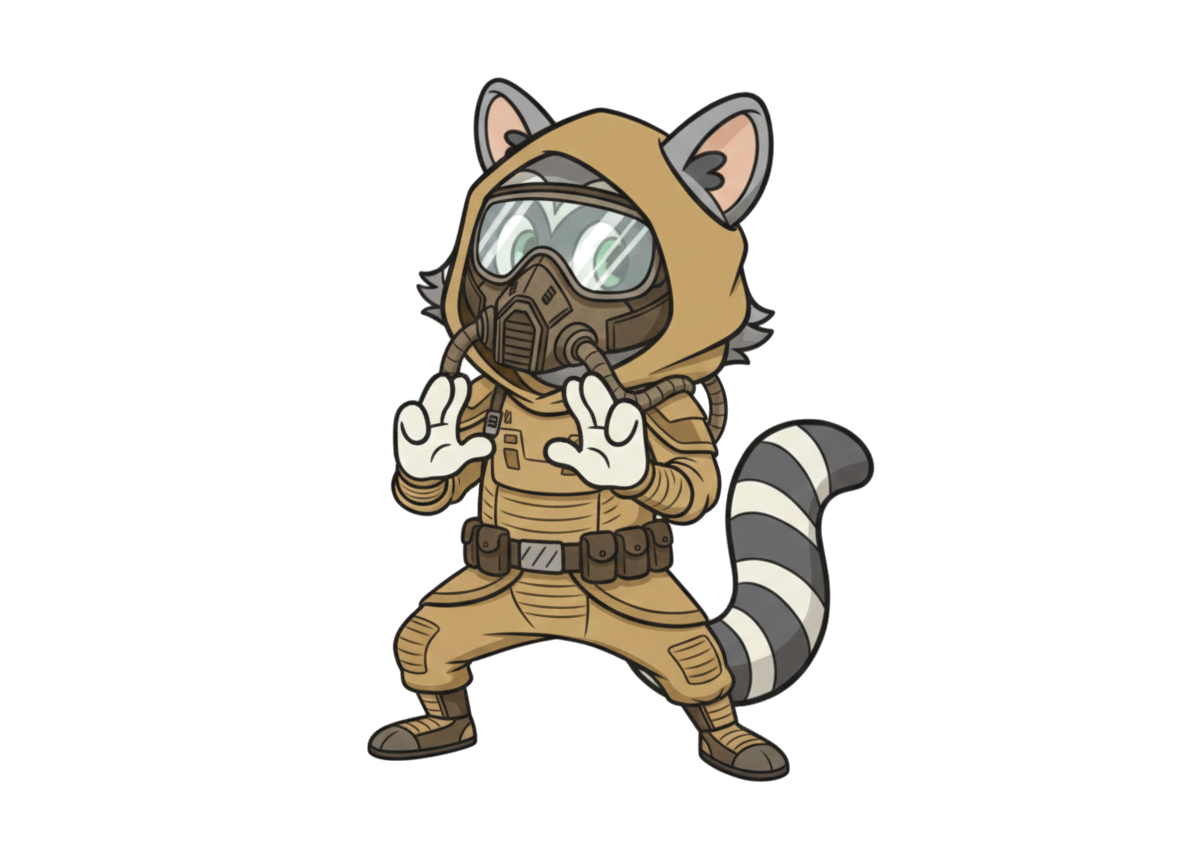
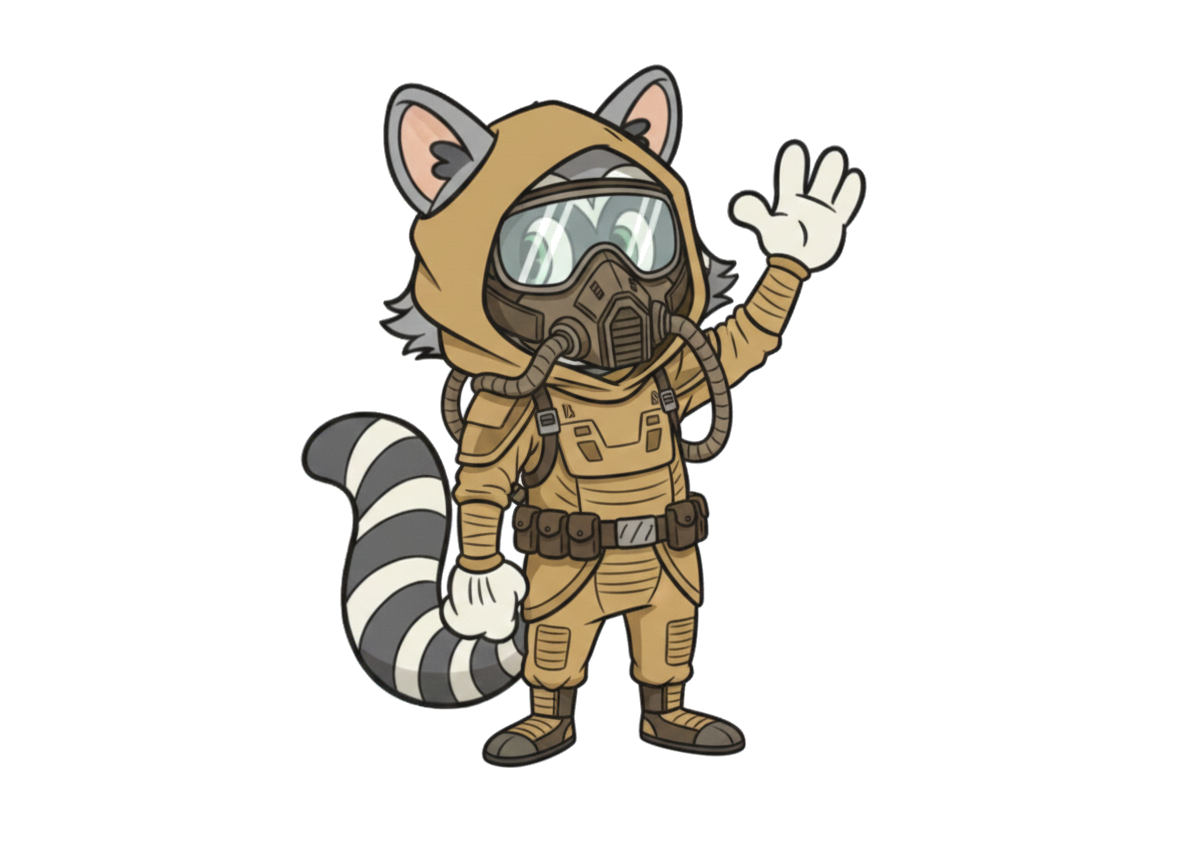
filtro de flashcards en proceso

Changed region(s): [[0.25, 0.0625, 0.75, 0.9062]]

diff --git a/src/templates/flashcards.html b/src/templates/flashcards.html
@@ -111,6 +111,29 @@
         </div>
     </div>
 
+
+        <div class="mascota-flashcards">
+        <img
+          class="flash-mascota-think"
+          src="{{ url_for(
+                   'static',
+                   filename='skins/' + (equipped_skin_cry if last_has_bad else equipped_skin_think)
+               ) }}"
+          alt="Mascota"
+        >
+    </div>
+
+
+
+    {% if bad_flashcard %}
+    <img src="{{ url_for('static', filename='skins/' + equipped_skin_cry) }}" class="flash-mascota-think">
+    {% else %}
+    <img src="{{ url_for('static', filename='skins/' + equipped_skin_think) }}" class="flash-mascota-think">
+    {% endif %}
+
+
+
+
     <script>
         function toggleAnswer(element) {
             const cardElement = element.closest('.flashcard');

diff --git a/src/static/styles.css b/src/static/styles.css
@@ -2116,3 +2116,15 @@ tbody tr:last-child td {
     object-fit: contain;
 }
 
+/* ========================================
+   mascota en flashcards
+   ======================================== */
+.flash-mascota-think {
+    position: fixed;
+    bottom: -70px;
+    right: -100px;
+    width: 400px;     /* Aumenta si la quieres más grande */
+    height: 400px;
+    object-fit: contain; /* Hace que todas las skins usen el mismo tamaño */
+    z-index: 999;
+}

diff --git a/src/routes/pet.py b/src/routes/pet.py
@@ -9,7 +9,7 @@ pet_bp = Blueprint('pet', __name__, template_folder='../templates')
 # -------------------------
 # SKINS DEFINIDAS
 # -------------------------
-skins_data= [
+skins_data = [
     {"id": 1, "nombre": "basico", "precio": 0,
      "imagenes": ["basico.png", "basico_think.png", "basico_llorar.png"]},
 
@@ -26,7 +26,7 @@ skins_data= [
      "imagenes": ["pijo.png", "pijo_think.png", "pijo_llorar.png"]},
 
     {"id": 6, "nombre": "dune", "precio": 90,
-     "imagenes": ["dune.png", "dune2.png"]},
+     "imagenes": ["dune.png", "dune2.png", "dune_llorar.png"]},
 
     {"id": 7, "nombre": "navidad", "precio": 100,
      "imagenes": ["navidad.png", "navidad_think.png", "navidad_llorar.png"]},
@@ -38,16 +38,10 @@ skins_data= [
      "imagenes": ["sheldon.png", "sheldon_think.png", "sheldon_llorar.png"]},
 
     {"id": 10, "nombre": "enfado", "precio": 10,
-     "imagenes": ["enfado.png"]}
+     "imagenes": ["enfado.png"]}  # esta solo tiene una, usará la misma para todo
 ]
 
 
-#Hace que `equipped_skin` esté disponible en TODAS las plantillas
-@pet_bp.app_context_processor
-def inject_equipped_skin():
-    return {
-        "equipped_skin": session.get("equipped_skin", "basico")
-    }
 
 # -------------------------
 # ARMARIO (pagina donde está el mueble)
@@ -156,18 +150,40 @@ def equip_skin():
     return redirect(url_for("pet.skins"))
 
 
-
-
 @pet_bp.app_context_processor
 def inject_equipped_skin():
-    skin_id = session.get("equipped_skin", 1)  # por defecto 1 = Básico
+    user_id = session.get("id")
 
-    # Buscar skin en datos
-    skin = next((s for s in skins_data if s["id"] == skin_id), None)
+    # Si no hay usuario logueado → usar básico
+    if not user_id:
+        return {
+            "equipped_skin_img": "basico.png",
+            "equipped_skin_think": "basico_think.png",
+            "equipped_skin_cry": "basico_llorar.png",
+            "equipped_skin_id": 1
+        }
+
+    # Buscar skin equipada en la base de datos
+    equipped = OwnedSkin.query.filter_by(user_id=user_id, equipped=1).first()
+    equipped_skin_id = equipped.skin_id if equipped else 1
+
+    # Buscar datos de esa skin en skins_data
+    skin = next((s for s in skins_data if s["id"] == equipped_skin_id), None)
 
     if skin:
-        main_image = skin["imagenes"][0]   # imagen principal
+        # 0 = normal, 1 = pensar, 2 = llorar (si existen)
+        normal = skin["imagenes"][0]
+        think  = skin["imagenes"][1] if len(skin["imagenes"]) > 1 else skin["imagenes"][0]
+        cry    = skin["imagenes"][2] if len(skin["imagenes"]) > 2 else skin["imagenes"][0]
     else:
-        main_image = "basico.png"
+        # Fallback por si algo va mal
+        normal = "basico.png"
+        think  = "basico_think.png"
+        cry    = "basico_llorar.png"
 
-    return {"equipped_skin_img": main_image, "equipped_skin_id": skin_id}
+    return {
+        "equipped_skin_img": normal,
+        "equipped_skin_think": think,
+        "equipped_skin_cry": cry,
+        "equipped_skin_id": equipped_skin_id
+    }

diff --git a/src/routes/flashcards.py b/src/routes/flashcards.py
@@ -2,6 +2,20 @@ from flask import Blueprint, render_template, request, flash, session, redirect,
 from model import Flashcard  # Importa la clase del modelo
 from database import db
 from utils import login_required
+
+BAD_WORDS = [
+    "violación", "violador", "violar", "vi0lar", "v1olar",
+    "incesto", "pederastia", "pedo", "abuso", "abusar",
+    "violando", "violada", "pornografía infantil",
+    "menor", "niño", "niña", "abuso infantil"
+]
+def contains_bad_word(text: str) -> bool:
+    if not text:
+        return False
+    t = text.lower()
+    return any(bad in t for bad in BAD_WORDS)
+
+
 flashcards_bp = Blueprint(
     'flashcards', __name__,
     template_folder='../templates',
@@ -13,10 +27,24 @@ flashcards_bp = Blueprint(
 @flashcards_bp.route("/dashboard/flashcards", methods=["GET"])
 @login_required
 def list_flashcards():
-    """Muestra todas las flashcards del usuario actual."""
     user_id = session['id']
-    flashcard_list = Flashcard.query.filter_by(user_id=user_id).order_by(Flashcard.id.desc()).all()
-    return render_template('flashcards.html', flashcards=flashcard_list)
+
+    flashcard_list = (Flashcard.query
+                      .filter_by(user_id=user_id)
+                      .order_by(Flashcard.id.desc())
+                      .all())
+
+    # ¿La última tarjeta tiene contenido prohibido?
+    last_has_bad = False
+    if flashcard_list:
+        last = flashcard_list[0]
+        last_has_bad = contains_bad_word(last.question) or contains_bad_word(last.answer)
+
+    return render_template(
+        'flashcards.html',
+        flashcards=flashcard_list,
+        last_has_bad=last_has_bad
+    )
 
 
 # RUTA 2: CREAR FLASHCARD
@@ -48,8 +76,14 @@ def create_flashcard():
         answer=answer,
         category=category
     )
+
+    new_card.bad = contains_bad_word(question) or contains_bad_word(answer)
+
     db.session.add(new_card)
     db.session.commit()
+
+    new_card.bad = contains_bad_word(question) or contains_bad_word(answer)
+
     flash('¡Flashcard creada con éxito!', 'success')
     return redirect(url_for('flashcards.list_flashcards'))
 

diff --git a/src/model.py b/src/model.py
@@ -167,6 +167,8 @@ class Flashcard(db.Model):
     answer = db.Column(db.Text, nullable=False)
     category = db.Column(db.String(100), default="General")
 
+    bad = db.Column(db.Boolean, default=False)
+
     def __init__(self, user_id, question, answer, category="General"):
         self.user_id = user_id
         self.question = question
